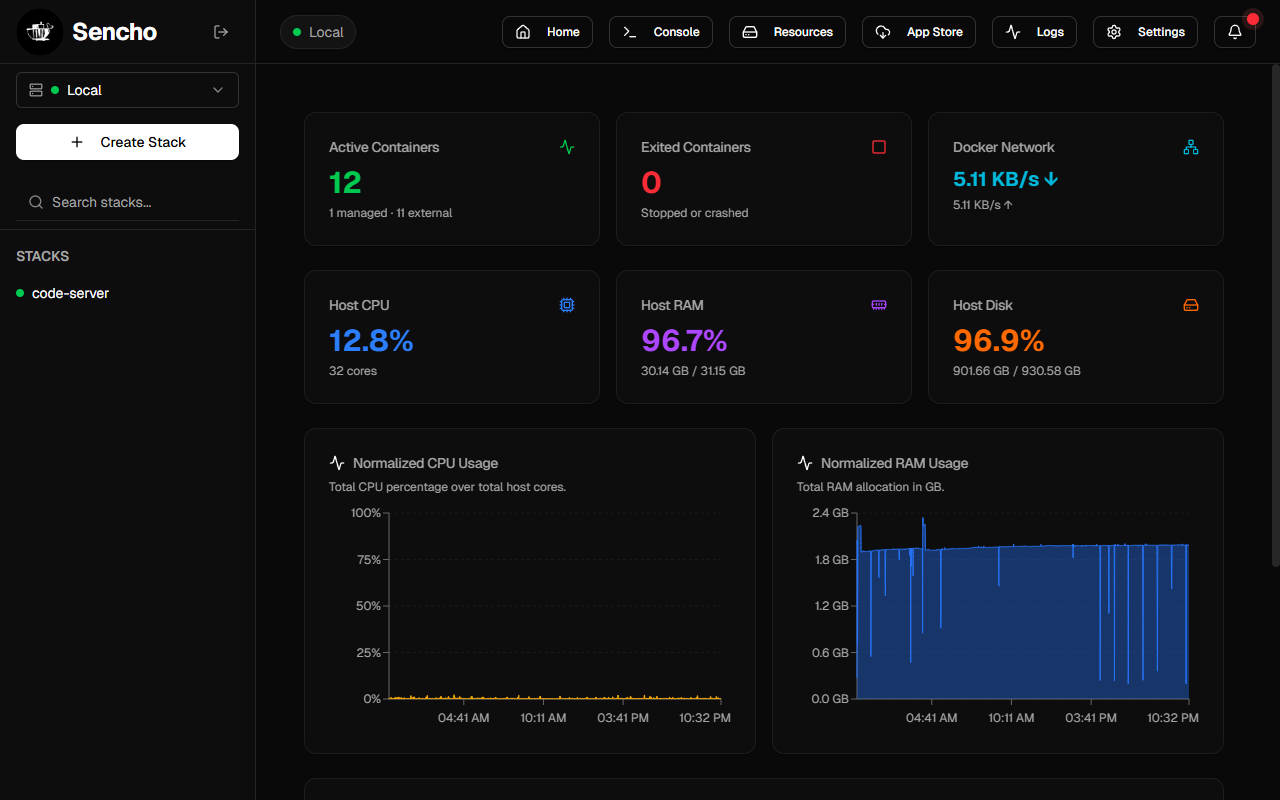
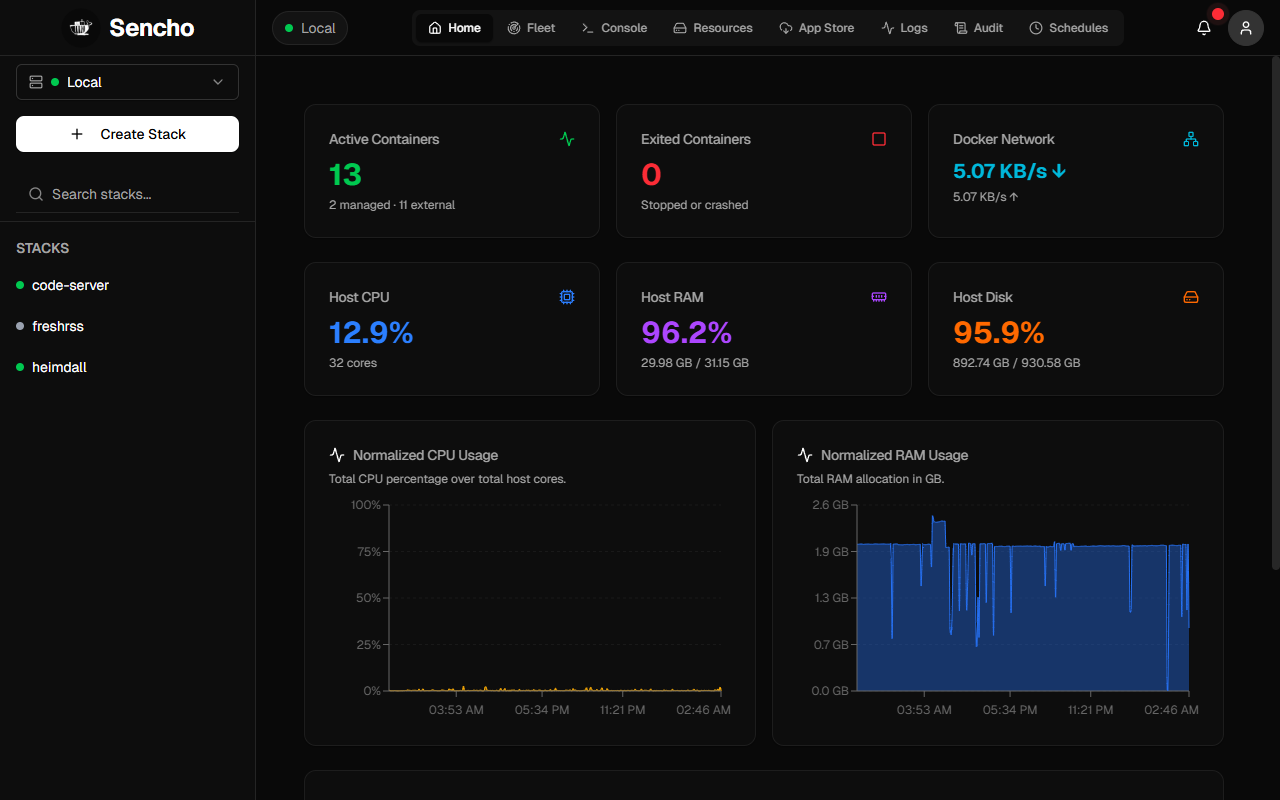
feat(ui): redesign top bar with three-zone navigation layout
Replace flat row of 10 individual buttons with a structured three-zone
layout: node context pill (left), animated navigation group (center),
and utility actions (right). Uses the Highlight component from
animate-ui for a spring-animated sliding indicator between nav items.

Responsive: icon+text labels at xl, icons-only at md, sheet drawer
for mobile. Navigation is data-driven via a permission-aware array
that conditionally includes admin and Team Pro items.

diff --git a/frontend/src/components/EditorLayout.tsx b/frontend/src/components/EditorLayout.tsx
@@ -1,4 +1,4 @@
-import { useState, useEffect, useRef } from 'react';
+import { useState, useEffect, useRef, useMemo } from 'react';
 import { motion } from 'motion/react';
 
 type Theme = 'light' | 'dark' | 'auto';
@@ -14,9 +14,11 @@ import { Input } from './ui/input';
 import { Dialog, DialogContent, DialogHeader, DialogTitle, DialogFooter, DialogTrigger } from './ui/dialog';
 import { AlertDialog, AlertDialogAction, AlertDialogCancel, AlertDialogContent, AlertDialogDescription, AlertDialogFooter, AlertDialogHeader, AlertDialogTitle } from './ui/alert-dialog';
 import { Tabs, TabsList, TabsTrigger } from './ui/tabs';
+import { Highlight, HighlightItem } from './animate-ui/primitives/effects/highlight';
 import { Card, CardContent, CardHeader, CardTitle } from './ui/card';
 import { Badge } from './ui/badge';
-import { Plus, Trash2, Play, Square, Save, Terminal, RotateCw, CloudDownload, Pencil, X, Home, ExternalLink, Bell, MoreVertical, BellRing, Rocket, HardDrive, ScrollText, Activity, Server, Radar, Undo2, RefreshCw, Download, Clock } from 'lucide-react';
+import { Plus, Trash2, Play, Square, Save, Terminal, RotateCw, CloudDownload, Pencil, X, Home, ExternalLink, Bell, MoreVertical, BellRing, Rocket, HardDrive, ScrollText, Activity, Server, Radar, Undo2, RefreshCw, Download, Clock, Menu } from 'lucide-react';
+import type { LucideIcon } from 'lucide-react';
 import { UserProfileDropdown } from './UserProfileDropdown';
 import { apiFetch, fetchForNode } from '@/lib/api';
 import { toast } from 'sonner';
@@ -30,6 +32,8 @@ import { Popover, PopoverContent, PopoverTrigger } from './ui/popover';
 import { DropdownMenu, DropdownMenuContent, DropdownMenuItem, DropdownMenuSeparator, DropdownMenuTrigger } from './ui/dropdown-menu';
 import { ContextMenu, ContextMenuContent, ContextMenuItem, ContextMenuSeparator, ContextMenuTrigger } from './ui/context-menu';
 import { Select, SelectContent, SelectItem, SelectTrigger, SelectValue } from '@/components/ui/select';
+import { Sheet, SheetContent, SheetTrigger } from './ui/sheet';
+import { cn } from '@/lib/utils';
 import { SettingsModal } from './SettingsModal';
 import { StackAlertSheet } from './StackAlertSheet';
 import { AppStoreView } from './AppStoreView';
@@ -143,9 +147,63 @@ export default function EditorLayout() {
   const [alertSheetOpen, setAlertSheetOpen] = useState(false);
   const [alertSheetStack, setAlertSheetStack] = useState('');
 
+  // Mobile navigation sheet state
+  const [mobileNavOpen, setMobileNavOpen] = useState(false);
+
   const openAlertSheet = (stackName: string) => {
     setAlertSheetStack(stackName);
     setAlertSheetOpen(true);
+  };
+
+  // Navigation items (permission-aware, data-driven)
+  const navItems = useMemo(() => {
+    const items: Array<{ value: string; label: string; icon: LucideIcon }> = [
+      { value: 'dashboard', label: 'Home', icon: Home },
+      { value: 'fleet', label: 'Fleet', icon: Radar },
+    ];
+    if (isAdmin) items.push({ value: 'host-console', label: 'Console', icon: Terminal });
+    items.push(
+      { value: 'resources', label: 'Resources', icon: HardDrive },
+      { value: 'templates', label: 'App Store', icon: CloudDownload },
+      { value: 'global-observability', label: 'Logs', icon: Activity },
+    );
+    if (isPro && license?.variant === 'team' && isAdmin) {
+      items.push(
+        { value: 'audit-log', label: 'Audit', icon: ScrollText },
+        { value: 'scheduled-ops', label: 'Schedules', icon: Clock },
+      );
+    }
+    return items;
+  }, [isAdmin, isPro, license?.variant]);
+
+  // Only highlight a tab if activeView matches a nav item
+  const navTabValue = navItems.some(i => i.value === activeView) ? activeView : undefined;
+
+  // Reset editor state (extracted from Home button onClick)
+  const resetEditorState = () => {
+    setSelectedFile(null);
+    setContent('');
+    setOriginalContent('');
+    setEnvContent('');
+    setOriginalEnvContent('');
+    setEnvFiles([]);
+    setSelectedEnvFile('');
+    setEnvExists(false);
+    setContainers([]);
+    setIsEditing(false);
+  };
+
+  // Navigation handler with toggle support
+  const handleNavigate = (value: string) => {
+    if (value === activeView) {
+      // Toggle off: return to editor if a file is open, else dashboard
+      setActiveView(selectedFile ? 'editor' : 'dashboard');
+    } else if (value === 'dashboard') {
+      resetEditorState();
+      setActiveView('dashboard');
+    } else {
+      setActiveView(value as typeof activeView);
+    }
   };
 
   // Listen for system dark mode changes (for 'auto' theme)
@@ -1030,9 +1088,9 @@ export default function EditorLayout() {
       {/* Left Sidebar (Stacks) */}
       <div className="w-64 border-r border-border bg-card flex flex-col">
         {/* Branding Header */}
-        <div className="h-16 flex items-center justify-center px-4 border-b border-border">
+        <div className="h-14 flex items-center justify-center px-4 border-b border-border">
           <div className="flex items-center gap-2">
-            <img src={isDarkMode ? '/sencho-logo-dark.png' : '/sencho-logo-light.png'} alt="Sencho Logo" className="w-12 h-12" />
+            <img src={isDarkMode ? '/sencho-logo-dark.png' : '/sencho-logo-light.png'} alt="Sencho Logo" className="w-10 h-10" />
             <h1 className="text-2xl font-bold tracking-tight">Sencho</h1>
           </div>
         </div>
@@ -1251,9 +1309,9 @@ export default function EditorLayout() {
 
       {/* Main Content Area */}
       <div className="flex-1 flex flex-col overflow-hidden">
-        {/* Top Header Bar */}
-        <div className="h-16 flex items-center justify-between px-6 border-b border-border gap-4">
-          {/* Node Context Pill - visible only when a remote node is active */}
+        {/* Top Header Bar — Three-zone layout: Node Pill | Navigation | Utilities */}
+        <div className="h-14 flex items-center px-4 border-b border-border gap-3">
+          {/* LEFT ZONE: Node Context Pill */}
           <div className="flex-shrink-0">
             {activeNode?.type === 'remote' ? (
               <div className="flex items-center gap-2 px-3 py-1.5 rounded-full bg-blue-500/10 border border-blue-500/20 text-blue-400 text-sm font-medium">
@@ -1267,117 +1325,45 @@ export default function EditorLayout() {
               </div>
             )}
           </div>
-          <div className="flex items-center gap-4">
-            {/* Home Button */}
-            <Button
-              variant="outline"
-              size="sm"
-              className="rounded-lg"
-              onClick={() => {
-                setSelectedFile(null);
-                setContent('');
-                setOriginalContent('');
-                setEnvContent('');
-                setOriginalEnvContent('');
-                setEnvFiles([]);
-                setSelectedEnvFile('');
-                setEnvExists(false);
-                setContainers([]);
-                setIsEditing(false);
-                setActiveView('dashboard');
-              }}
-              title="Go to Home Dashboard"
-            >
-              <Home className="w-4 h-4 mr-2" />
-              Home
-            </Button>
-            {/* Fleet Overview Toggle */}
-            <Button
-              variant={activeView === 'fleet' ? 'default' : 'outline'}
-              size="sm"
-              className="rounded-lg"
-              onClick={() => setActiveView(activeView === 'fleet' ? (selectedFile ? 'editor' : 'dashboard') : 'fleet')}
-              title="Fleet Overview"
-            >
-              <Radar className="w-4 h-4 mr-2" />
-              Fleet
-            </Button>
-            {/* Console Toggle */}
-            {isAdmin && (
-              <Button
-                variant={activeView === 'host-console' ? 'default' : 'outline'}
-                size="sm"
-                className="rounded-lg"
-                onClick={() => setActiveView(activeView === 'host-console' ? (selectedFile ? 'editor' : 'dashboard') : 'host-console')}
-              >
-                <Terminal className="w-4 h-4 mr-2" />
-                Console
-              </Button>
-            )}
-            {/* Resources Toggle */}
-            <Button
-              variant={activeView === 'resources' ? 'default' : 'outline'}
-              size="sm"
-              className="rounded-lg"
-              onClick={() => setActiveView(activeView === 'resources' ? (selectedFile ? 'editor' : 'dashboard') : 'resources')}
-              title="System Resources"
-            >
-              <HardDrive className="w-4 h-4 mr-2" />
-              Resources
-            </Button>
-            {/* App Store Toggle */}
-            <Button
-              variant={activeView === 'templates' ? 'default' : 'outline'}
-              size="sm"
-              className="rounded-lg"
-              onClick={() => setActiveView(activeView === 'templates' ? (selectedFile ? 'editor' : 'dashboard') : 'templates')}
-              title="App Store"
-            >
-              <CloudDownload className="w-4 h-4 mr-2" />
-              App Store
-            </Button>
-            {/* Global Observability Toggle */}
-            <Button
-              variant={activeView === 'global-observability' ? 'default' : 'outline'}
-              size="sm"
-              className="rounded-lg"
-              onClick={() => setActiveView(activeView === 'global-observability' ? (selectedFile ? 'editor' : 'dashboard') : 'global-observability')}
-              title="Global Logs"
-            >
-              <Activity className="w-4 h-4 mr-2" />
-              Logs
-            </Button>
-            {/* Audit Log Toggle (Team Pro + Admin only) */}
-            {isPro && license?.variant === 'team' && isAdmin && (
-              <Button
-                variant={activeView === 'audit-log' ? 'default' : 'outline'}
-                size="sm"
-                className="rounded-lg"
-                onClick={() => setActiveView(activeView === 'audit-log' ? (selectedFile ? 'editor' : 'dashboard') : 'audit-log')}
-                title="Audit Log"
-              >
-                <ScrollText className="w-4 h-4 mr-2" />
-                Audit
-              </Button>
-            )}
-            {/* Scheduled Operations Toggle (Team Pro + Admin only) */}
-            {isPro && license?.variant === 'team' && isAdmin && (
-              <Button
-                variant={activeView === 'scheduled-ops' ? 'default' : 'outline'}
-                size="sm"
-                className="rounded-lg"
-                onClick={() => setActiveView(activeView === 'scheduled-ops' ? (selectedFile ? 'editor' : 'dashboard') : 'scheduled-ops')}
-                title="Scheduled Operations"
-              >
-                <Clock className="w-4 h-4 mr-2" />
-                Schedules
-              </Button>
-            )}
 
+          {/* CENTER ZONE: Navigation Group (hidden on mobile) */}
+          <div className="flex-1 hidden md:flex justify-center">
+            <Highlight
+              className="inset-0 rounded-md bg-background shadow-sm"
+              value={navTabValue}
+              controlledItems
+              mode="children"
+              click={false}
+              transition={{ type: 'spring', stiffness: 300, damping: 30 }}
+            >
+              <div className="inline-flex items-center rounded-lg bg-muted/50 p-1 gap-0.5">
+                {navItems.map(({ value, label, icon: Icon }) => (
+                  <HighlightItem key={value} value={value}>
+                    <button
+                      onClick={() => handleNavigate(value)}
+                      className={cn(
+                        'inline-flex items-center gap-1.5 px-3 py-1.5 text-xs font-medium rounded-md transition-colors',
+                        activeView === value ? 'text-foreground' : 'text-muted-foreground hover:text-foreground'
+                      )}
+                    >
+                      <Icon className="w-3.5 h-3.5 shrink-0" />
+                      <span className="hidden xl:inline">{label}</span>
+                    </button>
+                  </HighlightItem>
+                ))}
+              </div>
+            </Highlight>
+          </div>
+
+          {/* Spacer for mobile (when center nav is hidden) */}
+          <div className="flex-1 md:hidden" />
+
+          {/* RIGHT ZONE: Utilities */}
+          <div className="flex-shrink-0 flex items-center gap-2">
             {/* Notifications Popover */}
             <Popover>
               <PopoverTrigger asChild>
-                <Button variant="outline" size="sm" className="rounded-lg relative" title="Notifications">
+                <Button variant="ghost" size="icon" className="h-8 w-8 rounded-lg relative" title="Notifications">
                   <Bell className="w-4 h-4" />
                   {notifications.filter(n => !n.is_read).length > 0 && (
                     <span className="absolute -top-1 -right-1 flex h-3 w-3">
@@ -1425,8 +1411,6 @@ export default function EditorLayout() {
                             </span>
                           </div>
                           <p className="font-medium pr-6">{notif.message}</p>
-
-                          {/* Delete individual notification button */}
                           <Button
                             variant="ghost"
                             size="icon"
@@ -1452,7 +1436,38 @@ export default function EditorLayout() {
               setTheme={setTheme}
               onOpenSettings={() => setSettingsModalOpen(true)}
             />
-          </div>{/* end right-side buttons */}
+
+            {/* Mobile Navigation Trigger */}
+            <Sheet open={mobileNavOpen} onOpenChange={setMobileNavOpen}>
+              <SheetTrigger asChild>
+                <Button variant="ghost" size="icon" className="h-8 w-8 rounded-lg md:hidden">
+                  <Menu className="w-4 h-4" />
+                </Button>
+              </SheetTrigger>
+              <SheetContent side="right" className="w-64 p-0">
+                <div className="p-4 border-b">
+                  <p className="text-sm font-semibold">Navigation</p>
+                </div>
+                <nav className="flex flex-col p-2 gap-1">
+                  {navItems.map(({ value, label, icon: Icon }) => (
+                    <button
+                      key={value}
+                      onClick={() => { handleNavigate(value); setMobileNavOpen(false); }}
+                      className={cn(
+                        'flex items-center gap-3 px-3 py-2.5 rounded-lg text-sm transition-colors',
+                        activeView === value
+                          ? 'bg-muted font-medium text-foreground'
+                          : 'text-muted-foreground hover:bg-muted/50 hover:text-foreground'
+                      )}
+                    >
+                      <Icon className="w-4 h-4" />
+                      {label}
+                    </button>
+                  ))}
+                </nav>
+              </SheetContent>
+            </Sheet>
+          </div>
         </div>
 
         {/* Main Workspace */}

diff --git a/CHANGELOG.md b/CHANGELOG.md
@@ -20,6 +20,10 @@ and this project adheres to [Semantic Versioning](https://semver.org/spec/v2.0.0
 
 ## [Unreleased]
 
+### Changed
+
+* **ui:** redesign top bar into three-zone layout — node pill (left), animated navigation group (center), utilities (right). Replaces flat row of individual buttons with a cohesive tab-style navigation using animated sliding highlight. Includes responsive behavior: icon+text at xl, icons-only at md, sheet drawer on mobile.
+
 ### Fixed
 
 * **scheduled-ops:** fix "Run Now" audit log entry incorrectly showing "Created scheduled task" instead of "Triggered scheduled task"
@@ -30,6 +34,7 @@ and this project adheres to [Semantic Versioning](https://semver.org/spec/v2.0.0
 ### Docs
 
 * **scheduled-ops:** add screenshots and document Run Now behavior for disabled tasks
+* **settings:** fix settings reference to correctly describe profile dropdown access
 
 ## [0.14.2](https://github.com/AnsoCode/Sencho/compare/v0.14.1...v0.14.2) (2026-03-29)
 
